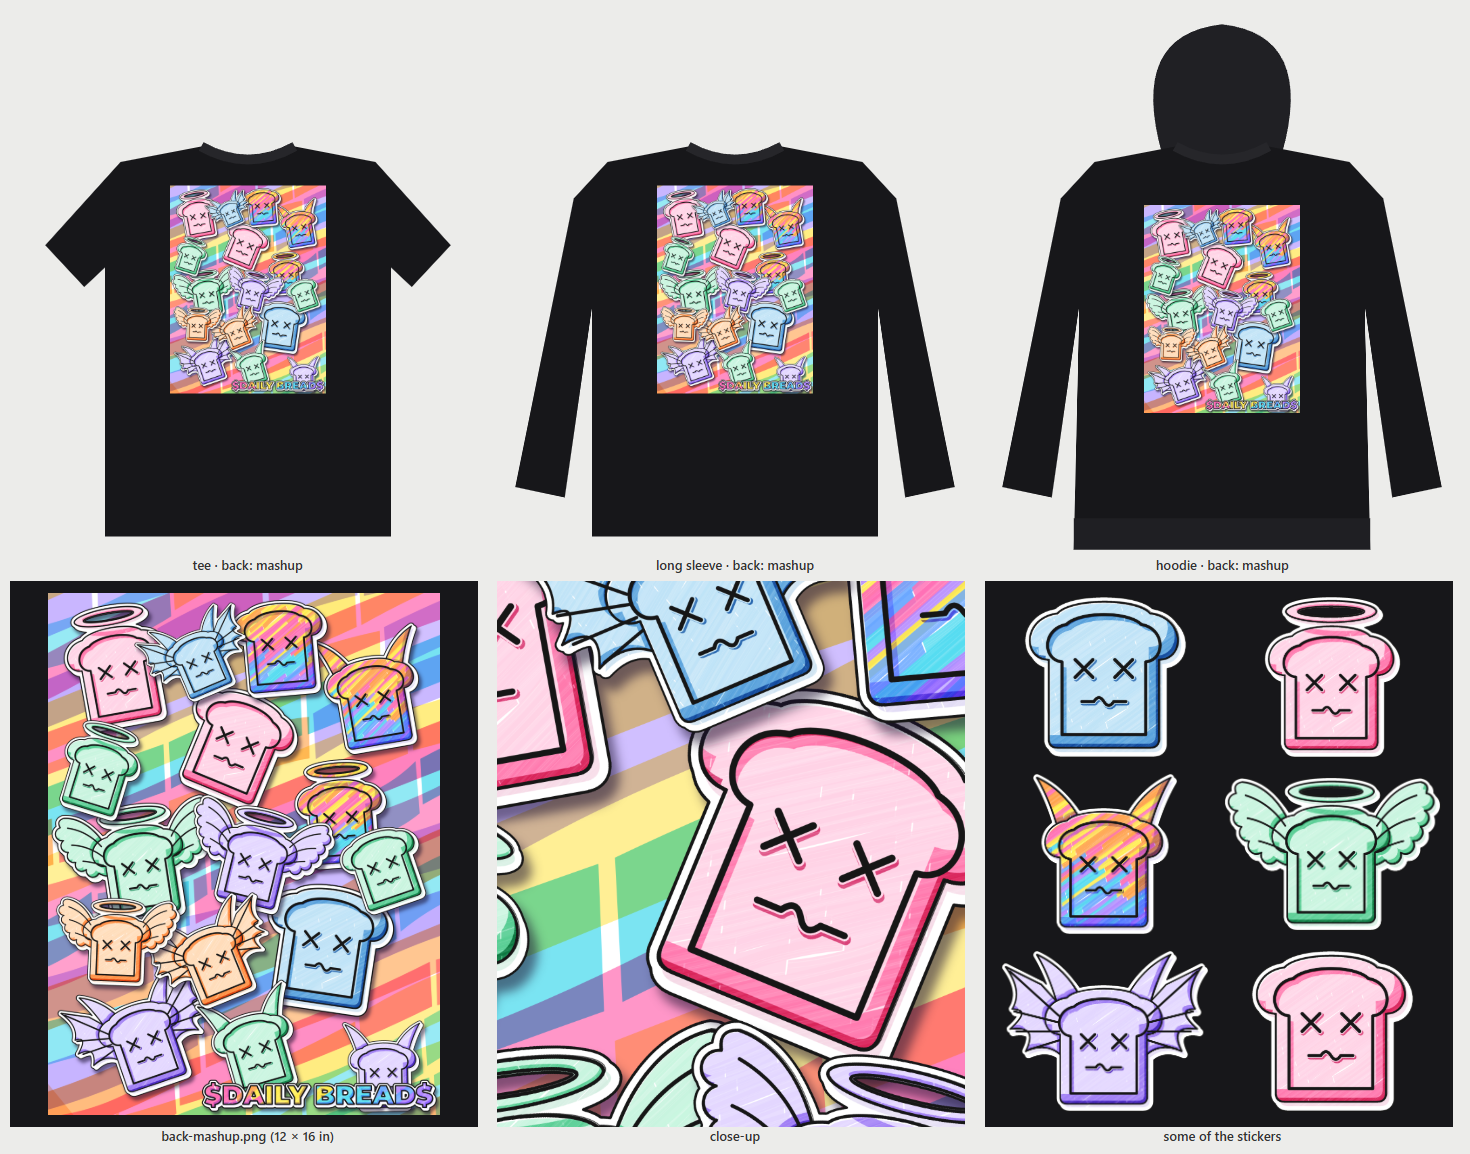
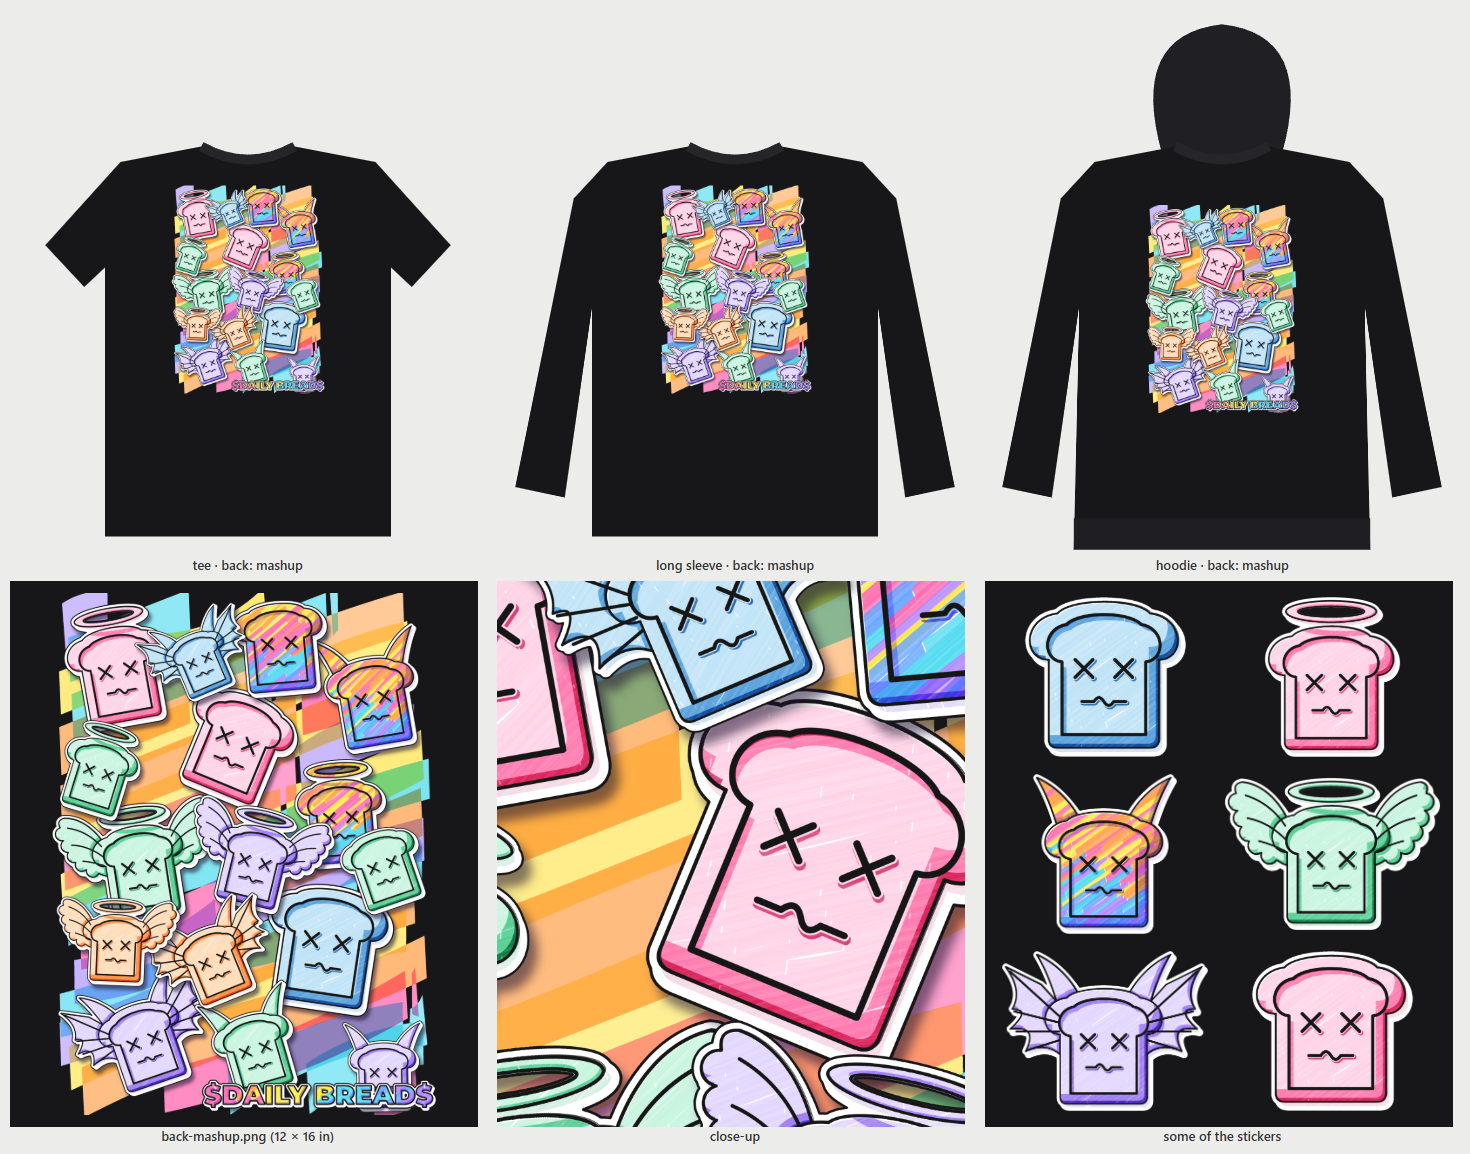
Highlight mashup back v2.1: inset panel with ragged, bleeding swipe ends

diff --git a/tshirts/highlight/mashup.js b/tshirts/highlight/mashup.js
@@ -2,8 +2,9 @@
 // shaded marker stickers in MIXED colorways (Blue, Pink, Rainbow, Mint, Lavender, Tangerine: three-marker light /
 // medium / dark layers, light from the upper left, bare-paper highlights, rain dashes, cast shadow on a white matte,
 // pen outlines, open halos), about 20 of them overlapped across the back, over a BACKGROUND of wide highlighter swipes
-// that covers the whole 12 x 16 in area (overlapping diagonal bands, so the crossings make new color bands, plus a few
-// crossing accents). To pop off the background, each sticker has a dark edge around its white matte and a soft drop
+// in a panel inset about 0.6 in from the 12 x 16 in print area, its swipe ends stopping short of or bleeding past the
+// panel edge so the edge is ragged and organic (overlapping diagonal bands, so the crossings make new color bands, plus
+// a few crossing accents). To pop off the background, each sticker has a dark edge around its white matte and a soft drop
 // shadow. $DAILY BREAD$ on top at the bottom right.
 // Reuses the marker helpers from shade.js (run shade.js and products.js first).
 // Outputs: files/rainbow-products/back-mashup.png and stickers/<mark>-<colorway>.png; mashup-samples.png.
@@ -25,7 +26,7 @@ const COLORWAYS = {
 };
 const CW = COLORWAYS.rainbow;   // the $DAILY BREAD$ tag
 // background: wide highlighter swipes
-const BG = { colors: ['#ff4fa3', '#ffe23d', '#ff9a3c', '#3fd8ec', '#a98bff'], w: 1.3, angle: -0.38, seed: 404 };
+const BG = { colors: ['#ff4fa3', '#ffe23d', '#ff9a3c', '#3fd8ec', '#a98bff'], w: 1.3, angle: -0.38, margin: 0.6, seed: 404 };   // margin: the swipe panel's inset from the print-area edges (in)
 const IDS = ['plain', 'saint', 'little-devil', 'heaven-sent', 'raising-hell'];
 const CWIDS = ['blue', 'pink', 'rainbow', 'mint', 'lavender', 'tangerine'];
 // sticker i: mark i mod 5, colorway i mod 6 (so the pairs keep changing)
@@ -144,31 +145,47 @@ const href = p => 'file:///' + p.replace(/\\/g, '/');
       }
       placed.push({ id, cx: best.cx, cy: best.cy, w, h, rot, r: Math.min(w, h) / 2 });
     }
-    // BACKGROUND: wide highlighter swipes over the whole area. Lanes on one diagonal, closer together than a swipe is
-    // wide, so neighbors overlap in darker bands; the swipes are multiplied (ink on paper); small gaps where swipes meet
-    // leave rain dashes. Then a few crossing swipes for variance.
-    const c = canvas(AW, AH), x = c.getContext('2d'); x.fillStyle = '#ffffff'; x.fillRect(0, 0, AW, AH);
-    { const RB = rng(BG.seed), w = BG.w * IN, D = Math.hypot(AW, AH);
+    // BACKGROUND: wide highlighter swipes in a panel inset from the print-area edges. Lanes on one diagonal, closer
+    // together than a swipe is wide, so neighbors overlap in darker bands; the swipes are multiplied (ink on paper).
+    // Each lane runs to the panel edge give or take: its ends stop a little short or bleed a little past it, chisel
+    // tips showing, so the edge is ragged and organic, not a cut rectangle. Gaps where swipes meet (rain dashes) and
+    // everything outside the swipes are left open, so the shirt shows. Then a few crossing swipes for variance.
+    const col = canvas(AW, AH), cx2 = col.getContext('2d'); cx2.fillStyle = '#ffffff'; cx2.fillRect(0, 0, AW, AH);
+    const mask = canvas(AW, AH), mx2 = mask.getContext('2d');
+    { const RB = rng(BG.seed), w = BG.w * IN, D = Math.hypot(AW, AH), M = BG.margin * IN;
       const pass = (ang, gap, keep, alpha, cols) => { const ux = Math.cos(ang), uy = Math.sin(ang), nx = -uy, ny = ux; let last = -1;
         for (let s = -D / 2; s < D / 2; s += w * gap) { let ci; do { ci = (RB() * cols.length) | 0; } while (ci === last && cols.length > 1); last = ci;
-          if (RB() > keep) continue; let p = -D / 2 - RB() * w * 3;
-          while (p < D / 2) { const l = (3 + RB() * 6) * IN, a = [AW / 2 + nx * s + ux * p, AH / 2 + ny * s + uy * p], b = [a[0] + ux * l, a[1] + uy * l];
-            x.save(); x.globalCompositeOperation = 'multiply'; marker(x, a[0], a[1], b[0], b[1], w * (0.92 + RB() * 0.16), cols[RB() < 0.15 ? (RB() * cols.length) | 0 : ci], RB, alpha * (0.85 + RB() * 0.3)); x.restore();
+          if (RB() > keep) continue;
+          // where this lane crosses the inset panel
+          const ox = AW / 2 + nx * s, oy = AH / 2 + ny * s; let t0 = -Infinity, t1 = Infinity;
+          for (const [o, u, lo, hi] of [[ox, ux, M, AW - M], [oy, uy, M, AH - M]]) {
+            if (Math.abs(u) < 1e-9) { if (o < lo || o > hi) { t0 = 1; t1 = 0; } continue; }
+            const ta = (lo - o) / u, tb = (hi - o) / u; t0 = Math.max(t0, Math.min(ta, tb)); t1 = Math.min(t1, Math.max(ta, tb)); }
+          if (t1 - t0 < w * 0.6) continue;
+          const bleed = () => (-0.25 + RB() * 0.8) * IN;   // stop short (up to 0.25 in) or bleed past (up to 0.55 in)
+          let p = t0 - bleed(); const end = t1 + bleed();
+          while (p < end - w * 0.3) { const l = Math.min((3 + RB() * 6) * IN, end - p), sd = (RB() * 1e9) | 0;
+            const A = [ox + ux * p, oy + uy * p], B = [A[0] + ux * l, A[1] + uy * l], k = w * (0.92 + RB() * 0.16), cc = cols[RB() < 0.15 ? (RB() * cols.length) | 0 : ci], al = alpha * (0.85 + RB() * 0.3);
+            cx2.save(); cx2.globalCompositeOperation = 'multiply'; marker(cx2, A[0], A[1], B[0], B[1], k, cc, rng(sd), al); cx2.restore();
+            marker(mx2, A[0], A[1], B[0], B[1], k, '#ffffff', rng(sd), 1);
             p += l - w * 0.22; } } };
       pass(BG.angle, 0.64, 1, 0.62, BG.colors);
       pass(BG.angle + 1.25, 1.9, 0.3, 0.36, BG.colors); }
+    hard(mask);
+    const c = and(col, mask), x = c.getContext('2d'); x.globalCompositeOperation = 'source-over';   // and() leaves its canvas in destination-in mode
     x.imageSmoothingQuality = 'high';
-    // stickers: soft drop shadow first, then the sticker
+    // stickers: soft drop shadow first (only where there is already art under it, so it never prints on bare shirt),
+    // then the sticker
     const shadowOf = img => { const t = canvas(img.width, img.height), tx = t.getContext('2d'); tx.drawImage(img, 0, 0); tx.globalCompositeOperation = 'source-in'; tx.fillStyle = '#1b1030'; tx.fillRect(0, 0, t.width, t.height); return t; };
     const shadows = {}; for (const k of Object.keys(imgs)) shadows[k] = shadowOf(imgs[k]);
     for (const q of placed) {
-      x.save(); x.translate(q.cx + 0.08 * IN, q.cy + 0.12 * IN); x.rotate(q.rot); x.filter = 'blur(' + (0.05 * IN) + 'px)'; x.globalAlpha = 0.55; x.drawImage(shadows[q.id], -q.w / 2, -q.h / 2, q.w, q.h); x.restore();
+      x.save(); x.globalCompositeOperation = 'source-atop'; x.translate(q.cx + 0.08 * IN, q.cy + 0.12 * IN); x.rotate(q.rot); x.filter = 'blur(' + (0.05 * IN) + 'px)'; x.globalAlpha = 0.55; x.drawImage(shadows[q.id], -q.w / 2, -q.h / 2, q.w, q.h); x.restore();
       x.save(); x.translate(q.cx, q.cy); x.rotate(q.rot); x.drawImage(imgs[q.id], -q.w / 2, -q.h / 2, q.w, q.h); x.restore();
     }
     { const tx0 = AW - INSET - tagT.width, ty0 = AH - INSET - tagT.height, sh = shadowOf(tagT);
-      x.save(); x.filter = 'blur(' + (0.04 * IN) + 'px)'; x.globalAlpha = 0.55; x.drawImage(sh, tx0 + 0.06 * IN, ty0 + 0.09 * IN); x.restore();
+      x.save(); x.globalCompositeOperation = 'source-atop'; x.filter = 'blur(' + (0.04 * IN) + 'px)'; x.globalAlpha = 0.55; x.drawImage(sh, tx0 + 0.06 * IN, ty0 + 0.09 * IN); x.restore();
       x.drawImage(tagT, tx0, ty0); }
-    { const d = x.getImageData(0, 0, AW, AH); for (let i = 3; i < d.data.length; i += 4) d.data[i] = 255; x.putImageData(d, 0, 0); }   // fully opaque (DTG)
+    hard(c);   // no partial transparency (DTG)
     return { png: c.toDataURL('image/png'), count: placed.length };
   }, { stickers, PLAN, MASH, HL, CW, BG });
   fs.writeFileSync(path.join(out, 'back-mashup.png'), setDpi(Buffer.from(back.png.split(',')[1], 'base64'), true));

diff --git a/obsidian/Coma Toast/Shirts/Highlight.md b/obsidian/Coma Toast/Shirts/Highlight.md
@@ -16,7 +16,7 @@ Feedback on v1: mix up the colors (not all rainbow); fewer stickers so each read
 - **Stickers:** 16 (2.5 to 3.9 in tall), all five marks used, each in one of the six colorways (Blue, Pink, Rainbow, Mint, Lavender, Tangerine) so every mark/color pair is different. Files: `stickers/<mark>-<colorway>.png`.
 - **Background:** wide (1.3 in) highlighter swipes covering the whole 12 × 16 in area: diagonal lanes closer together than a swipe is wide, so neighbors overlap into darker color bands (multiplied like ink), rain dashes where swipes meet, plus a few crossing swipes for variance. Colors: hot pink `#ff4fa3`, yellow `#ffe23d`, orange `#ff9a3c`, aqua `#3fd8ec`, violet `#a98bff`.
 - **Pop:** each sticker (and the `$DAILY BREAD$` tag) has a dark edge around its white matte and a soft drop shadow down and to the right.
-- The print is now a full, opaque 12 × 16 in rectangle (the background fills the whole back print area).
+- **Organic edge (v2.1):** the swipe panel is inset about 0.6 in from the print-area edges, and each swipe stops a little short of or bleeds up to about 0.55 in past the panel edge with its chisel tip showing, so the edge is ragged, not a cut rectangle. The shirt shows around the panel and through the rain-dash gaps. Drop shadows only print over art (never on bare shirt); no partial transparency.
 
 ## Rainbow back: mashup of all five marks (`mashup.js`, v1)
 The user asked for a back that mashes up all of the logo designs in the rainbow color pattern.
@@ -98,6 +98,7 @@ Bella+Canvas 3001 (Printful product 71), DTG front: **9.74 × 12 in**, centered,
 `node tshirts/highlight/highlight.js` (needs Node and Playwright, or `playwright-core` with `PLAYWRIGHT_PATH` and `BROWSER_CHANNEL=msedge`). Highlighter colors, zones, stroke width and passes are in the script; change the seed (1219) for a different stroke layout.
 
 ## Change log
+- **2026-10-13 — mashup v2.1:** background pulled in from the edges with ragged, bleeding swipe ends (organic on the shirt) instead of a full crisp rectangle.
 - **2026-10-13 — mashup v2:** mixed colorways, 16 stickers instead of 30, a full-area wide-highlighter-swipe background, dark matte edges and drop shadows so the stickers pop.
 - **2026-10-13 — Rainbow mashup back:** all five marks as shaded rainbow stickers, overlapped across the back; individual sticker files too.
 - **2026-10-13 — Rainbow products:** long sleeve and hoodie files (sleeve prints, sticker-pattern back, big-toast back, hoodie front size); clean pen outline on all text.
